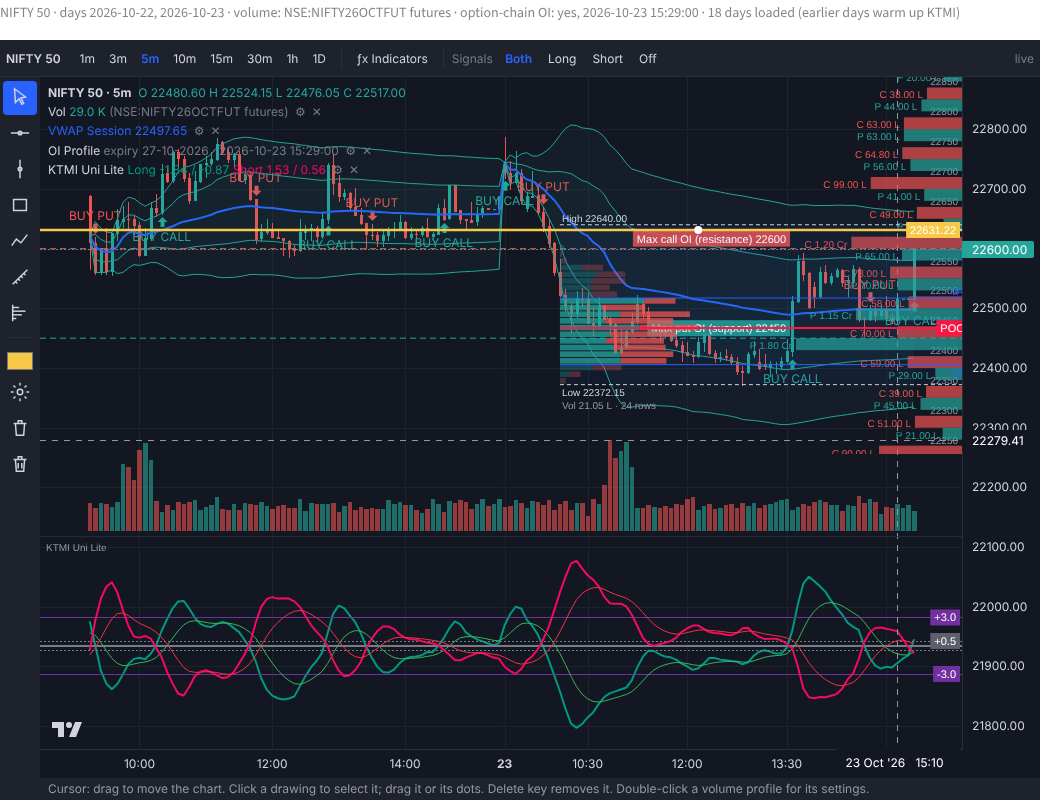
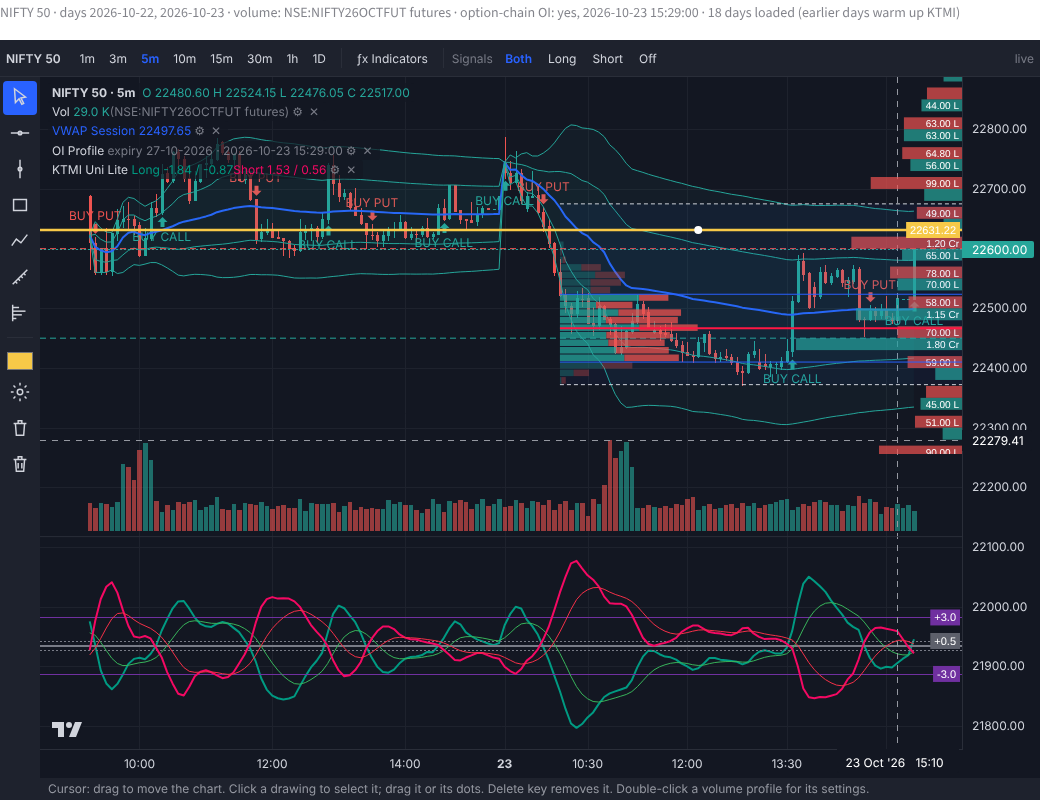
Chart: values in white inside OI and volume profile bars; no titles on the chart
Claude-Session: https://claude.ai/code/session_01E1KEGCzkhCwKEtwzuXD8YM

diff --git a/dashboard/static/kq_chart.js b/dashboard/static/kq_chart.js
@@ -553,6 +553,16 @@
   function text(t, x, y, color, align) {
     ctx.font = "10px sans-serif"; ctx.fillStyle = color; ctx.textAlign = align || "left"; ctx.fillText(t, x, y); ctx.textAlign = "left";
   }
+  // A value written INSIDE a bar in white; skipped when the bar is too small to hold it.
+  function inBar(t, x0, x1, yTop, h, align) {
+    const size = Math.min(11, Math.floor(h) - 1);
+    if (size < 7) return;
+    ctx.font = `${size}px sans-serif`;
+    if (ctx.measureText(t).width > x1 - x0 - 6) return;
+    ctx.fillStyle = "#ffffff"; ctx.textAlign = align === "left" ? "left" : "right";
+    ctx.fillText(t, align === "left" ? x0 + 3 : x1 - 3, yTop + h / 2 + size / 2 - 1);
+    ctx.textAlign = "left";
+  }
   function hLine(x0, x1, y, color, width, dash) {
     ctx.strokeStyle = color; ctx.lineWidth = width || 1; ctx.setLineDash(dash || []);
     ctx.beginPath(); ctx.moveTo(x0, y); ctx.lineTo(x1, y); ctx.stroke(); ctx.setLineDash([]);
@@ -600,17 +610,14 @@
           const c = r[side + "_oi_change"], cl = width * Math.abs(c) / max;
           ctx.strokeStyle = color; ctx.lineWidth = 1; ctx.strokeRect(W - cl, y + dy, cl, h);
         }
-        if (s.values && len > 0 && h >= 7) text(`${side === "call" ? "C" : "P"} ${big(v)}`, W - len - 4, y + dy + h - 1, color, "right");
+        if (s.values && len > 0) inBar(big(v), W - len, W, y + dy, h, "right");
       }
-      if (h >= 7) text(String(r.strike), W - 4, y - h - 2, "#9598a1", "right");
     }
     if (s.maxLines) {
       const maxCall = rows.reduce((a, b) => (b.call_oi > a.call_oi ? b : a)), maxPut = rows.reduce((a, b) => (b.put_oi > a.put_oi ? b : a));
-      for (const [r, color, name] of [[maxCall, s.callColor, "Max call OI (resistance)"], [maxPut, s.putColor, "Max put OI (support)"]]) {
+      for (const [r, color] of [[maxCall, s.callColor], [maxPut, s.putColor]]) {   // line only, no title
         const y = yOf(r.strike);
-        if (y === null) continue;
-        hLine(0, W, y, color, 1, [6, 4]);
-        label(`${name} ${r.strike}`, W - width - 6, y - 10, alpha(color, 0.85), "right");
+        if (y !== null) hLine(0, W, y, color, 1, [6, 4]);
       }
     }
   }
@@ -627,7 +634,6 @@
           const y0 = yOf(band[0]), y1 = yOf(band[1]);
           if (y0 === null || y1 === null) continue;
           ctx.fillStyle = alpha(color, 0.15); ctx.fillRect(x0, Math.min(y0, y1), right - x0, Math.abs(y1 - y0));
-          text(name, right - 4, (y0 + y1) / 2 + 3, color, "right");
         }
       }
     }
@@ -636,13 +642,11 @@
       if (x0 === null || y0 === null || y1 === null) continue;
       ctx.fillStyle = col(ob.bull, ob.internal ? 0.18 : 0.28); ctx.fillRect(x0, y0, right - x0, y1 - y0);
       ctx.strokeStyle = col(ob.bull, 0.6); ctx.lineWidth = 1; ctx.strokeRect(x0, y0, right - x0, y1 - y0);
-      text(ob.internal ? "OB" : "Swing OB", right - 4, y0 + 10, col(ob.bull, 0.9), "right");
     }
     for (const g of r.fvgs) {
       const x0 = xOfIndex(g.idx - 1), x1 = xOfIndex(N - 1 + Math.max(0, s.fvgExtend | 0)), y0 = yOf(g.top), y1 = yOf(g.bottom);
       if (x0 === null || x1 === null || y0 === null || y1 === null) continue;
       ctx.fillStyle = col(g.bull, 0.22); ctx.fillRect(x0, y0, x1 - x0, y1 - y0);
-      text("FVG", x0 + 3, y0 + 10, col(g.bull, 0.9));
     }
     for (const e of r.structures) {
       const x0 = xOfIndex(e.from), x1 = xOfIndex(e.to), y = yOf(e.price);
@@ -667,7 +671,6 @@
         const x0 = xOfIndex(idx), y = yOf(price);
         if (x0 === null || y === null) continue;
         hLine(x0, right, y, col(bull, 1), 1);
-        text(name, right - 4, bull ? y + 12 : y - 4, col(bull, 1), "right");
       }
     }
   }
@@ -699,18 +702,20 @@
         }
         if (s.showValues) {
           const v = s.volume === "Delta" ? deltas[r] : vp.totals[r];
-          text(big(v), s.placement === "Right" ? x1 - offset - 3 : x0 + offset + 3, yTop + h / 2 + 3, "#d1d4dc", s.placement === "Right" ? "right" : "left");
+          if (s.placement === "Right") inBar(big(v), x1 - offset, x1, yTop, h, "right");
+          else inBar(big(v), x0, x0 + offset, yTop, h, "left");
         }
       }
     }
     const lineEnd = s.extendRight ? W : x1;
     const yp = yOf(vp.poc), yh = yOf(vp.vah), yl = yOf(vp.val);
-    if (yp !== null) { hLine(x0, lineEnd, yp, s.pocColor, 2); label(`POC ${vp.poc.toFixed(2)}`, lineEnd - 2, yp, alpha(s.pocColor, 0.9), "right"); }
-    if (yh !== null) { hLine(x0, lineEnd, yh, s.vaColor, 1); text(`VAH ${vp.vah.toFixed(2)}`, lineEnd - 4, yh - 3, s.vaColor, "right"); }
-    if (yl !== null) { hLine(x0, lineEnd, yl, s.vaColor, 1); text(`VAL ${vp.val.toFixed(2)}`, lineEnd - 4, yl + 11, s.vaColor, "right"); }
+    // lines only (no titles): POC red, VAH / VAL blue, range high / low dashed
+    if (yp !== null) hLine(x0, lineEnd, yp, s.pocColor, 2);
+    if (yh !== null) hLine(x0, lineEnd, yh, s.vaColor, 1);
+    if (yl !== null) hLine(x0, lineEnd, yl, s.vaColor, 1);
     if (s.showHighLow) {
-      hLine(x0, x1, b.y0, "#d1d4dc", 1, [4, 3]); text(`High ${vp.high.toFixed(2)}`, x0 + 2, b.y0 - 3, "#d1d4dc");
-      hLine(x0, x1, b.y1, "#d1d4dc", 1, [4, 3]); text(`Low ${vp.low.toFixed(2)}`, x0 + 2, b.y1 + 11, "#d1d4dc");
+      hLine(x0, x1, b.y0, "#d1d4dc", 1, [4, 3]);
+      hLine(x0, x1, b.y1, "#d1d4dc", 1, [4, 3]);
     }
     for (const [key, field, color] of [["developingPoc", "poc", s.pocColor], ["developingVa", "vah", s.vaColor], ["developingVa", "val", s.vaColor]]) {
       if (!s[key] || !vp.developing.length) continue;
@@ -723,7 +728,6 @@
       }
       ctx.stroke(); ctx.setLineDash([]);
     }
-    text(`${vp.byTime ? "Time profile (no futures volume)" : "Vol " + big(vp.totalVolume)} · ${vp.rows} rows`, x0 + 2, b.y1 + 24, "#9598a1");
   }
 
   function paintMeasure(d, preview) {
@@ -785,7 +789,6 @@
     }
     if (S.ktmi.on) {
       hLine(0, W, H * PRICE_BOTTOM + 2, "#2a2e39", 1);
-      text("KTMI Uni Lite", 6, H * PRICE_BOTTOM + 16, "#9598a1");
       const ks = ktmiLines.long_speed;
       for (const [v, color] of [[L.overbought, purple], [L.upper, "#5d606b"], [L.oversold, purple]]) {
         const y = ks.priceToCoordinate(v);

diff --git a/docs/CHART_GUIDE.md b/docs/CHART_GUIDE.md
@@ -33,7 +33,7 @@ volume, the chart says so; VWAP then uses equal weights and the profile counts t
 | KTMI Uni Lite | momentum lines on/off (they are silent, not traded) |
 | VWAP | anchor (Session, Week, Month, Quarter, Year), source, offset, bands mode (standard deviation or percentage), **band #1, #2, #3 on/off** with multipliers 1, 2, 3, hide on 1D, fill, colours |
 | Bollinger Bands | length 20, basis MA type (SMA, EMA, SMMA (RMA), WMA, VWMA), source, StdDev 2, offset, background, colours |
-| OI Profile | option-chain open interest per strike at the right edge: OI, change in OI or both; strikes each side; width; values; highest call OI (resistance) and highest put OI (support) marked; colours. Refreshed every minute by the trading program (`oi_chain.json`). Only for today (live data). |
+| OI Profile | option-chain open interest per strike at the right edge: OI, change in OI or both; strikes each side; width; values (written in white inside the bars); highest call OI (resistance) and highest put OI (support) marked with a dotted line (no title); colours. Refreshed every minute by the trading program (`oi_chain.json`). Only for today (live data). |
 | Smart Money Concepts | internal and swing structure (BOS / CHoCH, filter All / BOS / CHoCH), swing length 50, internal length 5, swing points (HH / HL / LH / LL), strong / weak high and low, internal and swing order blocks (how many, mitigation Close or High/Low), equal highs / lows (bars, threshold), fair value gaps (auto threshold, extend), premium / discount zones, mode Historical / Present, colours |
 
 ## Drawing tools (left toolbar)
@@ -45,10 +45,14 @@ volume, the chart says so; VWAP then uses equal weights and the profile counts t
 | Rectangle | click one corner, then the opposite corner |
 | Path | click each point; click the last point again (or Enter) to finish; Esc cancels |
 | Measure (scale) | click start, then end: shows points, %, number of bars and time |
-| Volume profile (fixed range) | click the first candle, then the last candle. Shows **POC** (red), **VAH / VAL** (value area, blue), **High / Low** of the range. Settings (⚙ on the left, or double-click it): rows layout (number of rows / ticks per row), row size 24, volume Up/Down / Total / Delta, value area 70%, extend right, show profile, show values, width, placement left/right, show high/low, developing POC, developing VA, colours |
+| Volume profile (fixed range) | click the first candle, then the last candle. Lines only, no titles: **POC** (red), **VAH / VAL** (value area, blue), **High / Low** of the range (dashed). Values, when switched on, are written in white inside the bars. Settings (⚙ on the left, or double-click it): rows layout (number of rows / ticks per row), row size 24, volume Up/Down / Total / Delta, value area 70%, extend right, show profile, show values, width, placement left/right, show high/low, developing POC, developing VA, colours |
 
 Colour square: colour of the next drawing or of the selected one. Bin: delete the selected drawing.
 Double bin: remove all drawings of this index (click twice).
+
+The chart keeps text to a minimum: no titles on lines or boxes (the legend at the top-left names
+the indicators). Text left on purpose: KTMI arrows (BUY CALL / BUY PUT), BOS / CHoCH and the other
+Smart Money labels you switch on, the measure result, and price tags on the right edge.
 
 Everything you choose (timeframe, indicators, settings, signal filter, drawings, zoom) is saved in
 this browser, separately for each index.

diff --git a/docs/CLAUDE_CHANGELOG.md b/docs/CLAUDE_CHANGELOG.md
@@ -3,6 +3,12 @@
 Short, append-only record of what Claude changed, so every AI and the owner can see the state.
 Newest entry first. Test counts are real runs; "needs local DB" errors/skips are the 5 candle-database tests.
 
+## claude/affectionate-bardeen-3k5sls: cleaner chart text (owner request), 2026-10-25
+- OI profile and volume profile values are written in white INSIDE the bars (only when they fit);
+  strike labels outside the OI bars removed; max call/put OI = dotted line only, no title.
+- No titles on the chart: removed POC/VAH/VAL/High/Low words, "OB", "FVG", "Swing OB", premium/discount
+  and strong/weak words, the profile footer and the "KTMI Uni Lite" pane title. Lines and boxes stay.
+
 ## claude/affectionate-bardeen-3k5sls: TradingView-style chart, futures volume, indicators, 2026-10-24 (night)
 - Runner saves per index: nearest-futures 1-minute candles WITH volume (warm-up history + live ticks via
   `vol_traded_today`), daily candles (+ futures daily volume), option-chain OI every minute

diff --git a/CLAUDE.md b/CLAUDE.md
@@ -60,5 +60,6 @@
   data `dashboard/data/chart.py`; runner saves futures volume / daily / OI (`paper_trading/chart_feeds.py`).
   OWNER RULE: index has no volume -> always use nearest FUTURES volume on the spot chart.
   Owner's tools: horizontal, vertical, rectangle, path, measure, volume profile (no trend line / fib).
+  OWNER STYLE: no titles on the chart (lines only); bar values in WHITE INSIDE the bars, never outside.
 - OWNER RULE: when the owner says "we are done for the day", give ALL commands to run on their PC in order,
   step by step (folder for each), with what each one should show, plus everything still pending from their side.
